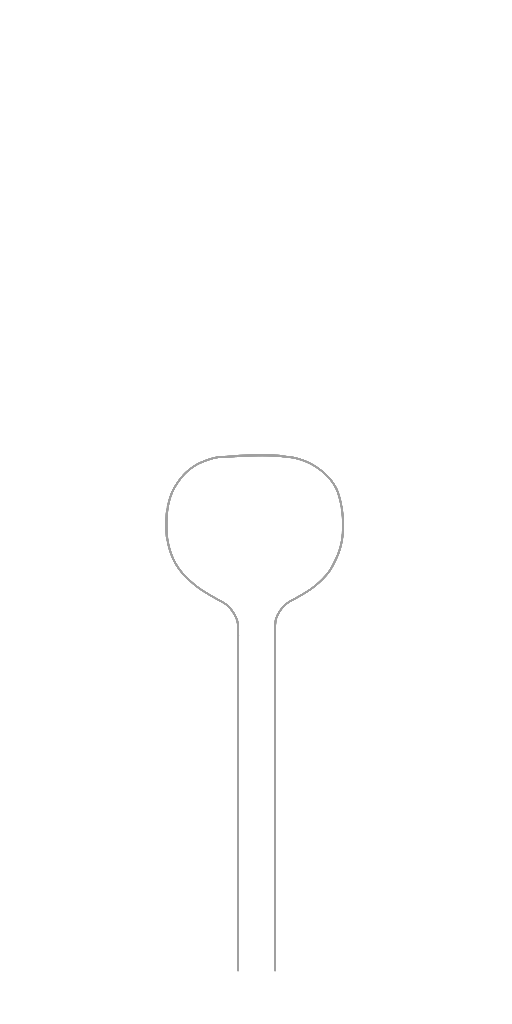
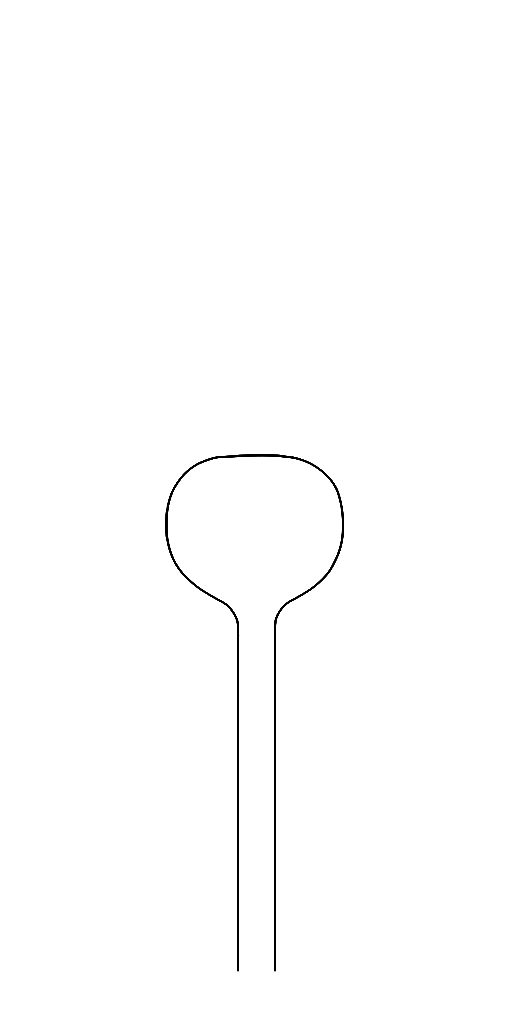
tweaked seam appearance

diff --git a/index.html b/index.html
@@ -2541,7 +2541,7 @@
 
 	$("#seamsButtonPadCheck").on("change",function() {
 		if ($(this).is(":checked")) {
-			jerseyLogoCanvas.setBackgroundImage('./images/seams/seams_button_pad.png', jerseyLogoCanvas.renderAll.bind(jerseyLogoCanvas));
+			jerseyLogoCanvas.setBackgroundImage('./images/seams/seams_button_pad.png', jerseyLogoCanvas.renderAll.bind(jerseyLogoCanvas), {opacity: 0.25});
 		} else {
 			jerseyLogoCanvas.setBackgroundImage(null, jerseyLogoCanvas.renderAll.bind(jerseyLogoCanvas));
 		}
@@ -2556,7 +2556,7 @@
 					g.getObjects().find(o => o.id === 'buttonsScript').visible = true;
 					g.getObjects().find(o => o.id === 'buttonsNoScript').visible = false;
 					g.getObjects().find(o => o.id === 'zipper').visible = false;
-					jerseyLogoCanvas.setBackgroundImage('./images/seams/seams_button_pad.png', jerseyLogoCanvas.renderAll.bind(jerseyLogoCanvas));
+					jerseyLogoCanvas.setBackgroundImage('./images/seams/seams_button_pad.png', jerseyLogoCanvas.renderAll.bind(jerseyLogoCanvas), {opacity: 0.25});
 					if ($("#seamsType").val() == "seamsStandardToCollar") {
 						$("#seamsType").val("seamsStandardToPiping").trigger("change")
 					} else if ($("#seamsType").val() == "seamsRaglanToCollar") {
@@ -2567,7 +2567,7 @@
 					g.getObjects().find(o => o.id === 'buttonsScript').visible = false;
 					g.getObjects().find(o => o.id === 'buttonsNoScript').visible = true;
 					g.getObjects().find(o => o.id === 'zipper').visible = false;
-					jerseyLogoCanvas.setBackgroundImage('./images/seams/seams_button_pad.png', jerseyLogoCanvas.renderAll.bind(jerseyLogoCanvas));
+					jerseyLogoCanvas.setBackgroundImage('./images/seams/seams_button_pad.png', jerseyLogoCanvas.renderAll.bind(jerseyLogoCanvas), {opacity: 0.25});
 					if ($("#seamsType").val() == "seamsStandardToCollar") {
 						$("#seamsType").val("seamsStandardToPiping").trigger("change")
 					} else if ($("#seamsType").val() == "seamsRaglanToCollar") {
@@ -2590,7 +2590,7 @@
 			g.getObjects().find(o => o.id === 'buttonsScript').visible = false;
 			g.getObjects().find(o => o.id === 'buttonsNoScript').visible = false;
 			g.getObjects().find(o => o.id === 'zipper').visible = false;
-			jerseyLogoCanvas.setBackgroundImage('./images/seams/seams_button_pad.png', jerseyLogoCanvas.renderAll.bind(jerseyLogoCanvas));
+			jerseyLogoCanvas.setBackgroundImage('./images/seams/seams_button_pad.png', jerseyLogoCanvas.renderAll.bind(jerseyLogoCanvas), {opacity: 0.25});
 		}
 		g.addWithUpdate()
 		jerseyLogoCanvas.renderAll()
@@ -4104,7 +4104,8 @@
 		seamsStandardToPiping = new fabric.Image.fromURL('./images/seams/seams_standard_to_piping.png', function(oImg) {
 			oImg.set({
 				id: 'seamsStandardToPiping',
-				visible: true
+				visible: true,
+				opacity: 0.25
 			})
 			seams.addWithUpdate(oImg)
 		})
@@ -4112,7 +4113,8 @@
 		seamsStandardToCollar = new fabric.Image.fromURL('./images/seams/seams_standard_to_collar.png', function(oImg) {
 			oImg.set({
 				id: 'seamsStandardToCollar',
-				visible: false
+				visible: false,
+				opacity: 0.25
 			})
 			seams.addWithUpdate(oImg)
 		})
@@ -4120,7 +4122,8 @@
 		seamsRaglanToPiping = new fabric.Image.fromURL('./images/seams/seams_raglan_to_piping.png', function(oImg) {
 			oImg.set({
 				id: 'seamsRaglanToPiping',
-				visible: false
+				visible: false,
+				opacity: 0.25
 			})
 			seams.addWithUpdate(oImg)
 		})
@@ -4128,7 +4131,8 @@
 		seamsRaglanToCollar = new fabric.Image.fromURL('./images/seams/seams_raglan_to_collar.png', function(oImg) {
 			oImg.set({
 				id: 'seamsRaglanToCollar',
-				visible: false
+				visible: false,
+				opacity: 0.25
 			})
 			seams.addWithUpdate(oImg)
 		})
@@ -5093,10 +5097,9 @@
 		jerseyLogoCanvas.add(buttons)
         
 		jerseyLogoCanvas.setOverlayImage('./images/jersey_mesh_layout.png', jerseyLogoCanvas.renderAll.bind(jerseyLogoCanvas));
-		jerseyLogoCanvas.setBackgroundImage('./images/seams/seams_button_pad.png', jerseyLogoCanvas.renderAll.bind(jerseyLogoCanvas));
+		//jerseyLogoCanvas.setBackgroundImage('./images/seams/seams_button_pad.png', jerseyLogoCanvas.renderAll.bind(jerseyLogoCanvas), {opacity: 0.25});
+		jerseyLogoCanvas.setBackgroundImage('./images/seams/seams_button_pad.png', jerseyLogoCanvas.renderAll.bind(jerseyLogoCanvas), {opacity: 0.25});
 		reRenderBG("jersey")
-
-		console.log(mlbLogo.top)
 	}
 
 	function initializePants() {
@@ -6359,6 +6362,9 @@
 				buttonPadSeams: buttonPadSeams,
 				seamsVisible: seamsVisible,
 				seamsOption: $("#seamsType").val(),
+				jerseyWatermarkColor: idealTextColor(jerseyBelow.backgroundColor),
+				capWatermarkColor: idealTextColor(capBelow.backgroundColor),
+				pantsWatermarkColor: idealTextColor(pantsBelow.backgroundColor),
 				json: JSON.stringify(exportMeta,null,2)
 			},
 			success: function(data) {
@@ -6390,7 +6396,7 @@
 				}
 
 				if (buttonPadSeams == true) {
-					jerseyLogoCanvas.setBackgroundImage('./images/seams/seams_button_pad.png', jerseyLogoCanvas.renderAll.bind(jerseyLogoCanvas));
+					jerseyLogoCanvas.setBackgroundImage('./images/seams/seams_button_pad.png', jerseyLogoCanvas.renderAll.bind(jerseyLogoCanvas), {opacity: 0.25});
 				}
 
 				if ($("#toggleCapGuides").is(":checked")) {

diff --git a/main.js b/main.js
@@ -352,8 +352,11 @@ app2.post('/saveUniform', (req, res) => {
 		let capBase = await Jimp.read(capBelow)
 		let capOverlay = await Jimp.read(capLogoCanvas)
 		let texture = await Jimp.read(__dirname+"/images/texture_cap_default.png")
+		let capWM = await Jimp.read(__dirname+"/images/cap_watermark.png")
+		await capWM.color([{ apply: "mix", params: [req.body.capWatermarkColor, 100] }]);
 		await capBase.composite(texture, 0, 0, {mode: Jimp.BLEND_MULTIPLY})
 		await capBase.composite(capOverlay, 0, 0, {mode:Jimp.BLEND_SOURCE_OVER})
+		await capBase.composite(capWM, 0, 0, {mode:Jimp.BLEND_SOURCE_OVER})
 		let capBuffer = await capBase.getBufferAsync(Jimp.MIME_PNG)
 		archive.append(capBuffer, {name: "cap_"+req.body.name+".png"})
 		await capBase.write(app.getPath('downloads') + '/uniform_Unknown_Team_Home/cap_' + req.body.name+'.png')
@@ -362,6 +365,9 @@ app2.post('/saveUniform', (req, res) => {
 		let pantsBase = await Jimp.read(pantsBelow)
 		let pantsOverlay = await Jimp.read(pantsLogoCanvas)
 		await pantsBase.composite(pantsOverlay, 0, 0, {mode:Jimp.BLEND_SOURCE_OVER})
+		let pantsWM = await Jimp.read(__dirname+"/images/pants_watermark.png")
+		await pantsWM.color([{ apply: "mix", params: [req.body.pantsWatermarkColor, 100] }]);
+		await pantsBase.composite(pantsWM, 0, 0, {mode:Jimp.BLEND_SOURCE_OVER})
 		let pantsBuffer = await pantsBase.getBufferAsync(Jimp.MIME_PNG)
 		archive.append(pantsBuffer, {name: "pants_"+req.body.name+".png"})
 		await pantsBase.write(app.getPath('downloads') + '/uniform_Unknown_Team_Home/pants_' + req.body.name+'.png')
@@ -373,7 +379,7 @@ app2.post('/saveUniform', (req, res) => {
 		if (buttonPadSeams == "true") {
 			console.log("button pad seams are visible")
 			let bpSeamImg = await Jimp.read(__dirname+"/images/seams/seams_button_pad.png")
-			await bpSeamImg.brightness(.75)
+			await bpSeamImg.opacity(.25)
 			await jerseyBase.composite(bpSeamImg, 0, 0, {mode:Jimp.BLEND_SOURCE_OVER})
 		}
 		if (seamsVisible == "true") {
@@ -392,10 +398,13 @@ app2.post('/saveUniform', (req, res) => {
 					break;
 			}
 			let seamsImg = await Jimp.read(seamSrc)
-			await seamsImg.brightness(.75)
+			await seamsImg.opacity(.25)
 			await jerseyBase.composite(seamsImg, 0, 0, {mode:Jimp.BLEND_SOURCE_OVER})
 		}
 		await jerseyBase.composite(jerseyOverlay, 0, 0, {mode:Jimp.BLEND_SOURCE_OVER})
+		let jerseyWM = await Jimp.read(__dirname+"/images/jersey_watermark.png")
+		await jerseyWM.color([{ apply: "mix", params: [req.body.jerseyWatermarkColor, 100] }]);
+		await jerseyBase.composite(jerseyWM, 0, 0, {mode:Jimp.BLEND_SOURCE_OVER})
 		let jerseyBuffer = await jerseyBase.getBufferAsync(Jimp.MIME_PNG)
 		archive.append(jerseyBuffer, {name: "jersey_"+req.body.name+"_d.png"})
 		await jerseyBase.write(app.getPath('downloads') + '/uniform_Unknown_Team_Home/jersey_' + req.body.name+'_d.png')
@@ -407,7 +416,7 @@ app2.post('/saveUniform', (req, res) => {
 		if (buttonPadSeams == "true") {
 			console.log("button pad seams are visible")
 			let bpHMSeamImg = await Jimp.read(__dirname+"/images/seams/seams_button_pad.png")
-			await bpHMSeamImg.brightness(-.33)
+			await bpHMSeamImg.brightness(.33)
 			await jerseyHeightMap.composite(bpHMSeamImg, 0, 0, {mode:Jimp.BLEND_SOURCE_OVER})
 		}
 		if (seamsVisible == "true") {
@@ -426,7 +435,7 @@ app2.post('/saveUniform', (req, res) => {
 					break;
 			}
 			let seamsHMImg = await Jimp.read(seamHMSrc)
-			await seamsHMImg.brightness(-.33)
+			await seamsHMImg.brightness(.33)
 			await jerseyHeightMap.composite(seamsHMImg, 0, 0, {mode:Jimp.BLEND_SOURCE_OVER})
 		}
 		if (showPlanket == "true") {
@@ -443,6 +452,30 @@ app2.post('/saveUniform', (req, res) => {
 		let jerseyBakedBase = await Jimp.read(jerseyBelow)
 		let jerseyBakedOverlay = await Jimp.read(jerseyLogoCanvas)
 		let jerseyTexture = await Jimp.read(__dirname+"/images/texture_jersey_default.png")
+		if (buttonPadSeams == "true") {
+			let bpBakedSeamImg = await Jimp.read(__dirname+"/images/seams/seams_button_pad.png")
+			await bpBakedSeamImg.opacity(.25)
+			await jerseyBakedBase.composite(bpBakedSeamImg, 0, 0, {mode:Jimp.BLEND_SOURCE_OVER})
+		}
+		if (seamsVisible == "true") {
+			switch (seamsOption) {
+				case "seamsStandardToPiping":
+					var seamSrc = __dirname+"/images/seams/seams_standard_to_piping.png"
+					break;
+				case "seamsStandardToCollar":
+					var seamSrc = __dirname+"/images/seams/seams_standard_to_collar.png"
+					break;
+				case "seamsRaglanToPiping":
+					var seamSrc = __dirname+"/images/seams/seams_raglan_to_piping.png"
+					break;
+				case "seamsRaglanToCollar":
+					var seamSrc = __dirname+"/images/seams/seams_raglan_to_collar.png"
+					break;
+			}
+			let seamsBakedImg = await Jimp.read(seamSrc)
+			await seamsBakedImg.opacity(.25)
+			await jerseyBakedBase.composite(seamsBakedImg, 0, 0, {mode:Jimp.BLEND_SOURCE_OVER})
+		}
 		await jerseyBakedBase.composite(jerseyTexture, 0, 0, {mode: Jimp.BLEND_MULTIPLY})
 		await jerseyBakedBase.composite(jerseyBakedOverlay, 0, 0, {mode:Jimp.BLEND_SOURCE_OVER})
 		let jerseyBakedBuffer = await jerseyBakedBase.getBufferAsync(Jimp.MIME_PNG)
